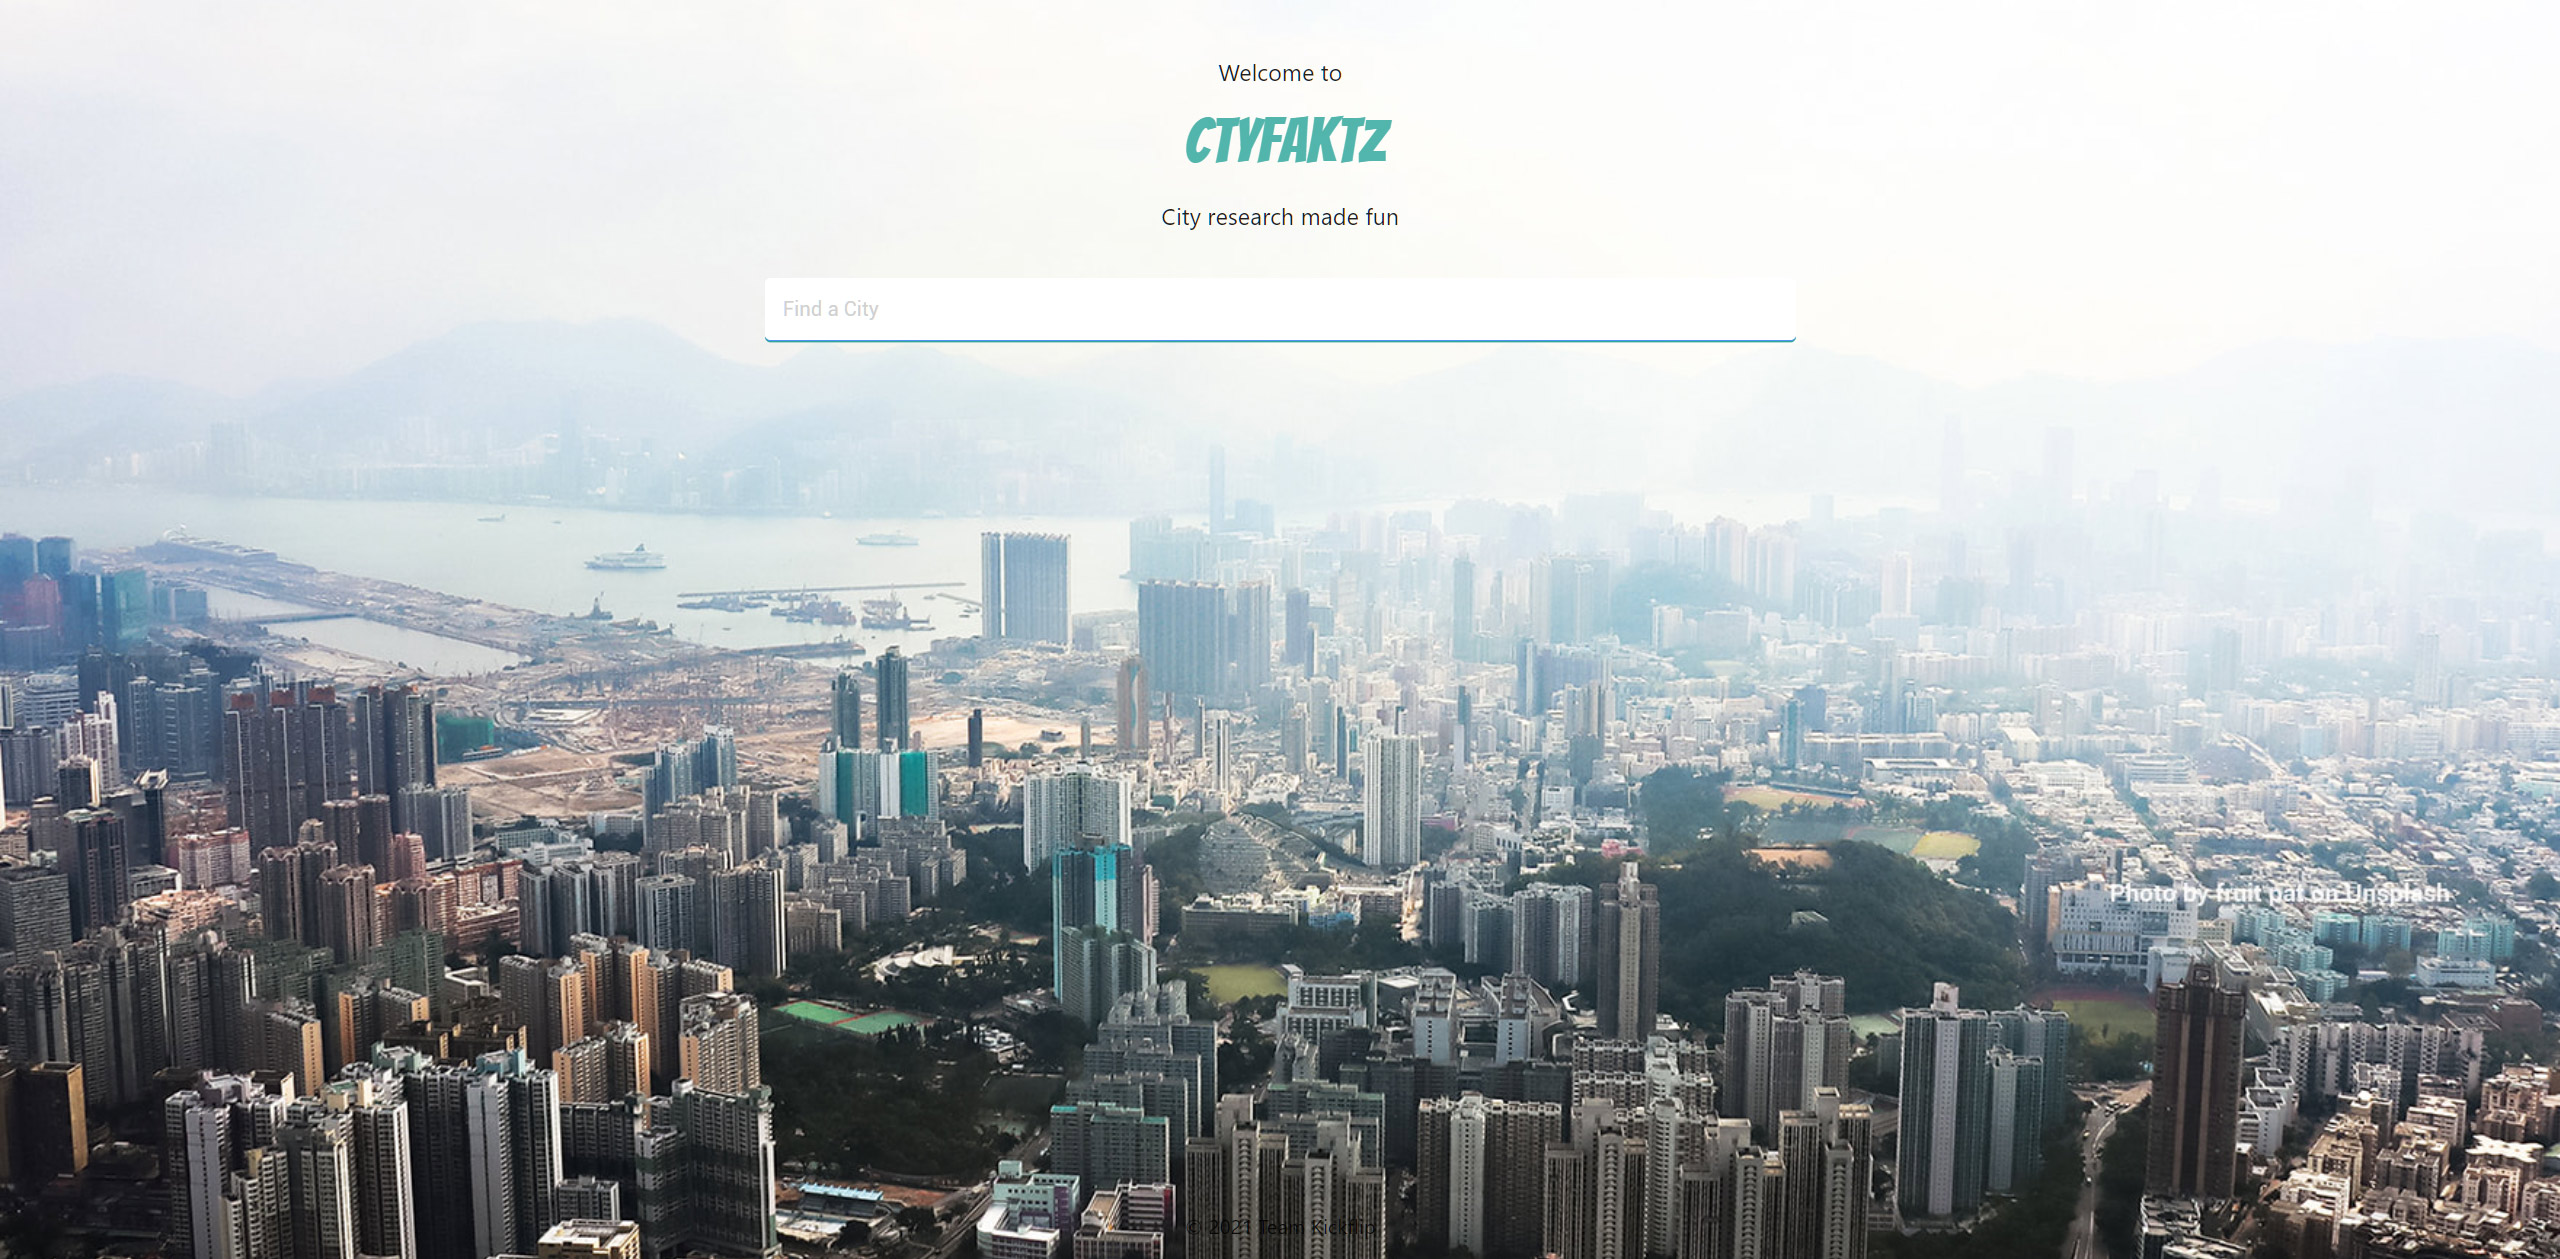
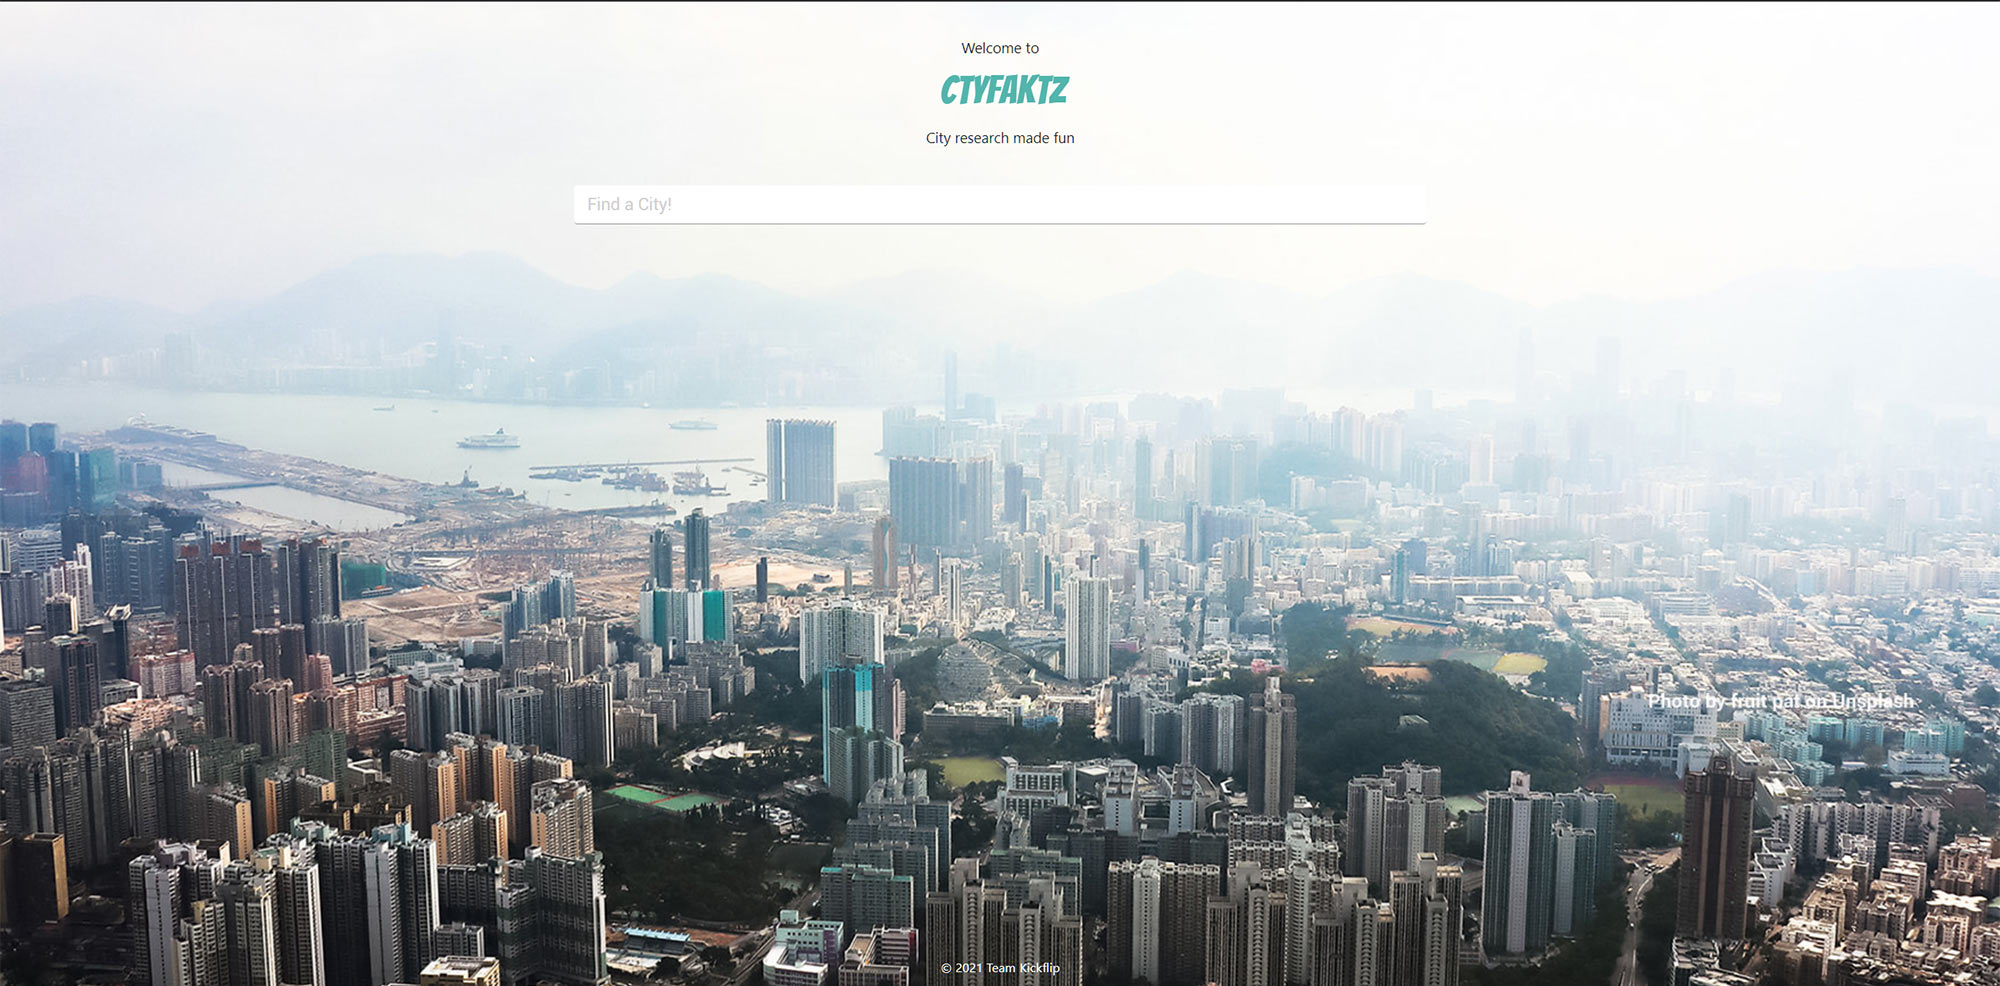
Added screenshots, updated readme, fixed map alignment

diff --git a/Assets/script.js b/Assets/script.js
@@ -11,7 +11,7 @@ var terms = [
   "bowling alley",
   "park",
   "McDonalds",
-  "Chipotle",
+  "Movie Theater",
   "hospital",
   "gym",
 ];
@@ -44,19 +44,19 @@ var funFacts = [
   },
   {
     description: "Portals to Narnia",
-    amount: 0.000001445,
+    amount: 0.000002445,
   },
   {
     description: "Autobots in disguise",
-    amount: 0.00000087234,
+    amount: 0.00000187234,
   },
   {
     description: "Mutant Ninja Turtles in Sewers",
-    amount: 0.00000493,
+    amount: 0.00000693,
   },
   {
     description: "Channing Tatems pretentending to be in high shool",
-    amount: 0.0000007839,
+    amount: 0.0000013839,
   },
 ];
 

diff --git a/Assets/style.css b/Assets/style.css
@@ -20,6 +20,7 @@ main {
 }
 #mapContainer {
   width: 100%;
+  margin-left: -14px !important;
 }
 #searchFormEl {
   display: inline-block;
@@ -44,7 +45,7 @@ main {
 }
 #logo {
   font-size: 3.1rem;
-  margin-top: 2px;
+  margin-top: 20px;
   padding-left: 6px;
   font-family: "Bangers", cursive;
 }

diff --git a/README.md b/README.md
@@ -24,9 +24,9 @@ Search for a city and ctyFaktz will pull from multiple sources to display useful
 ## Upcoming Features
 
 - Compare 2 Cities side by side
-- User-customizeable city amenity search
-- Custom Per Capita search
+- User-customizable city amenity search
 - % of McDonald's Ice Cream Machines working by city
+- City Air Quality
 
 ### Screenshots
 
@@ -39,3 +39,7 @@ Results Page
 Mobile Responsive
 
 ![Screenshot](Assets/screenshot3.jpg "Screenshot")
+
+![Screenshot](Assets/screenshot4.jpg "Screenshot")
+
+![Screenshot](Assets/screenshot5.jpg "Screenshot")
